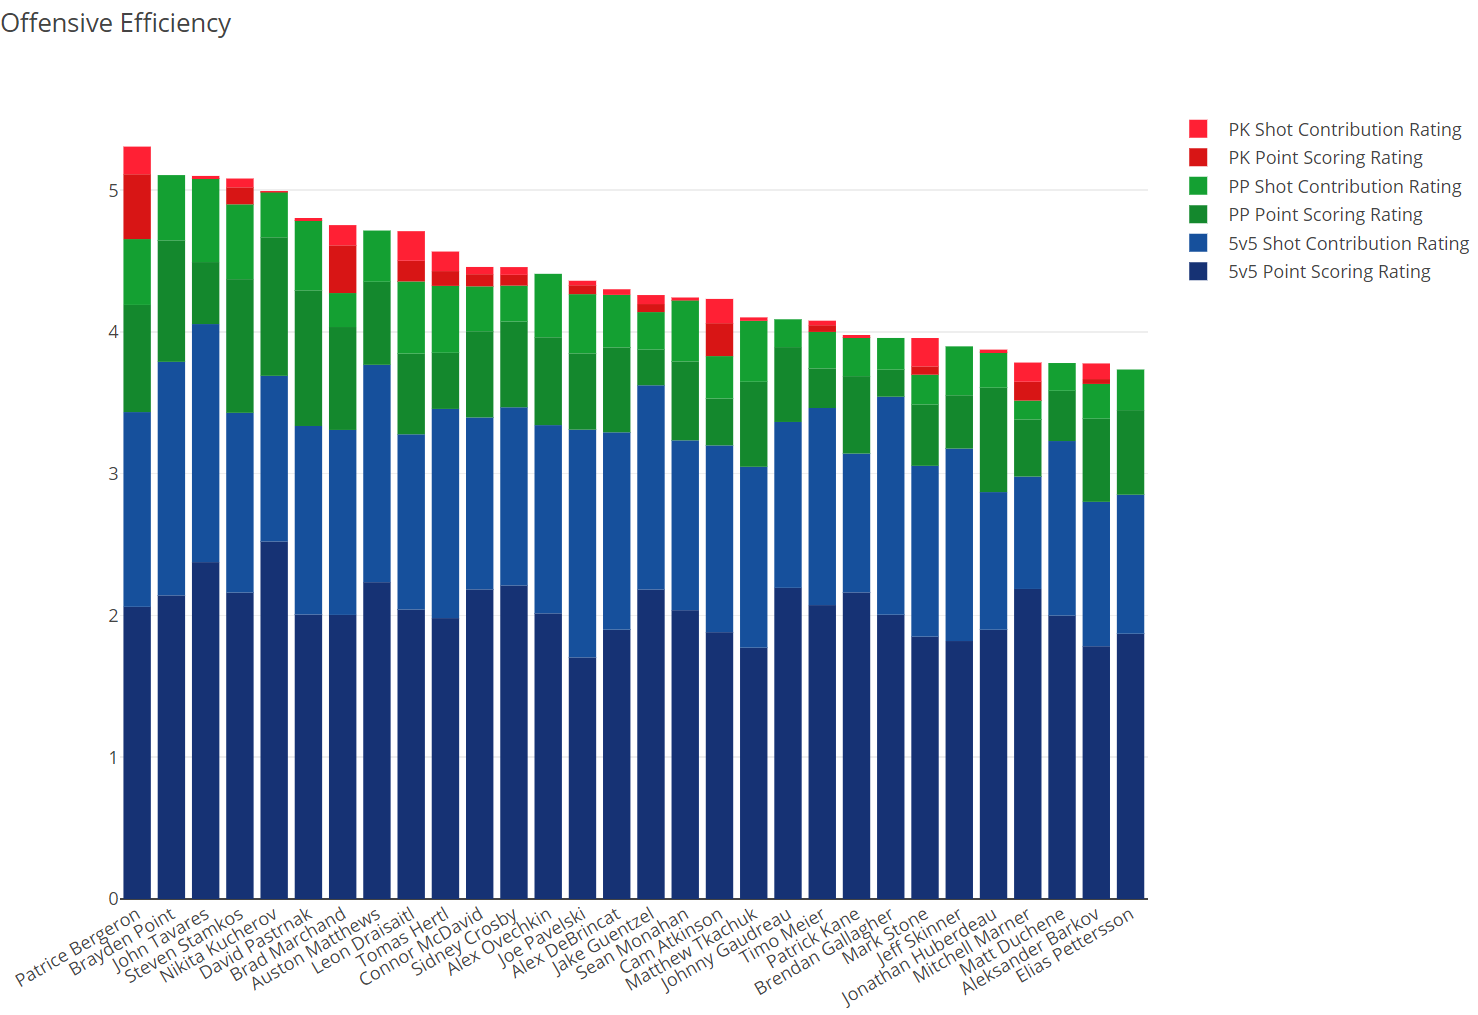
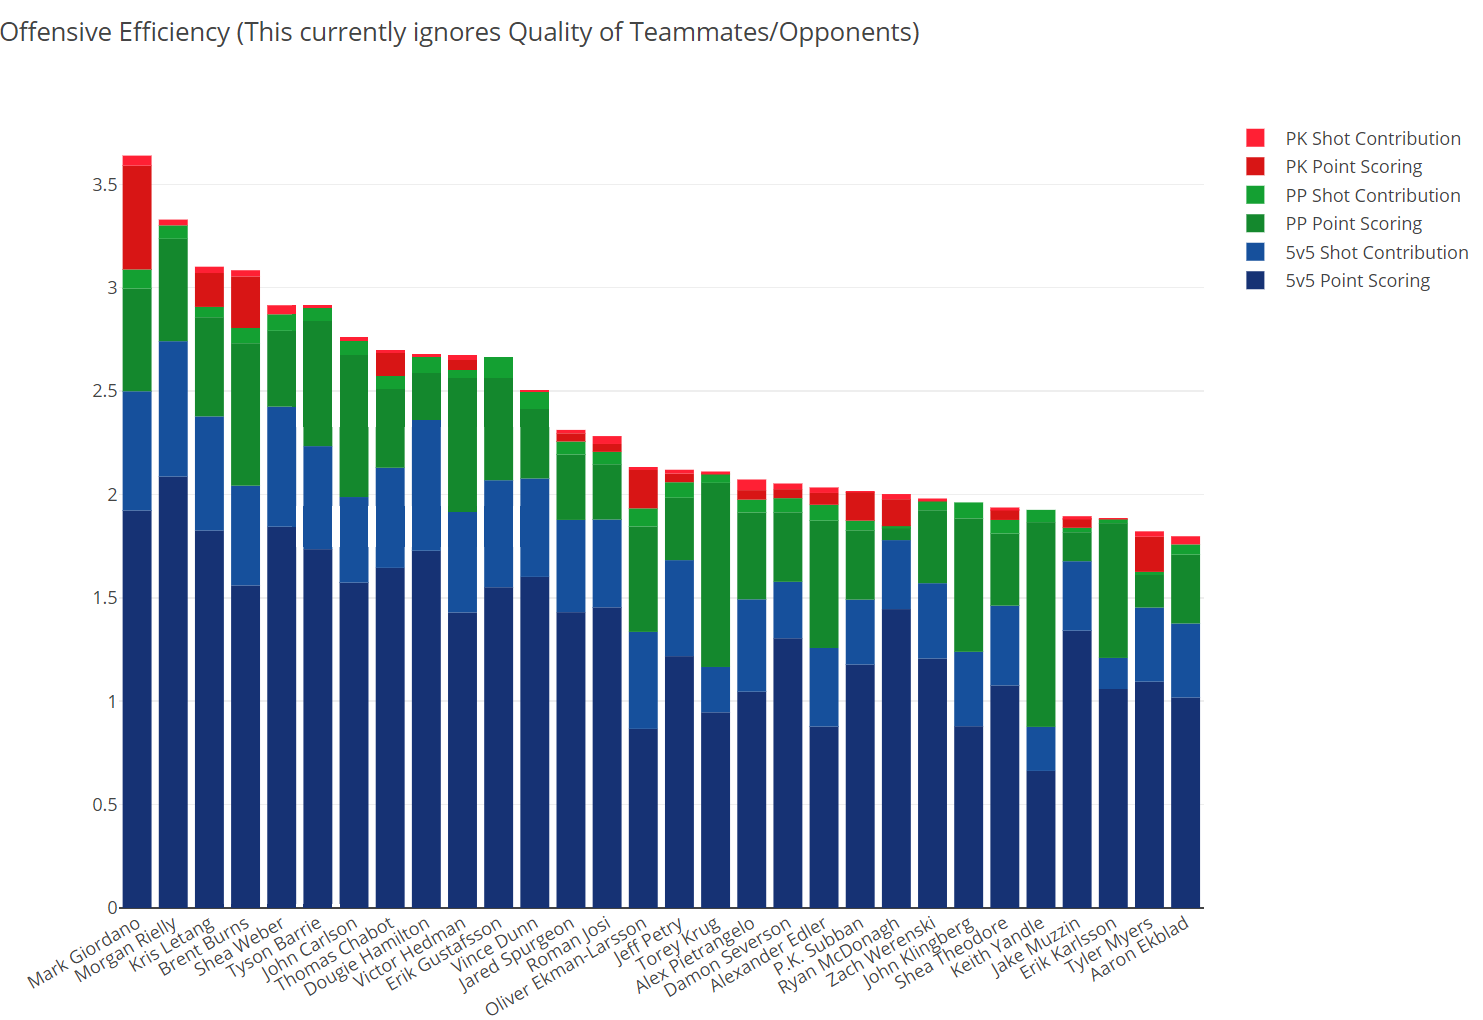
Cleaned up code, Commented Functions and Refactored
A lot of edits were made to remove clutter and add docstrings to functions (will have to add a Model class to clean up the Skater class code).

Removed references to old code.

Changed picture to a different example filter for Defencemen that shows satasfyingly a accurate rating scale.

Will also need to look into Plot.ly documentation more to give the chart more style.

diff --git a/HockeyStatsModel.py b/HockeyStatsModel.py
@@ -40,41 +40,43 @@ defenceRatingList = []
 
 # Open and Load json data
 def loadAllTeamData():
+    """Load JSON for Team Season Data in All Situations 2018-19"""
     with open('Team Season Stats 2018-19.json') as f:
         allTeamData = json.load(f)
         return allTeamData
 def load5v5TeamData():
+    """Load JSON for Team Season Data at 5v5 (Even Strength) 2018-19"""
     with open('5v5 Team Season Stats 2018-19.json') as f:
         team5v5Data = json.load(f)
         return team5v5Data
 def loadAllIndividualData():
+    """Load JSON for Player Data in All Situations 2018-19"""
     with open('Total Individual Skater Stats 2018-19.json') as f:
         allSkaterData = json.load(f)
         return allSkaterData
 def load5v5IndividualData():
+    """Load JSON for Player Data at 5v5 (Even Strength) 2018-19"""
     with open('5v5 Individual Skater Stats 2018-19.json') as f:
         i5v5Data = json.load(f)
         return i5v5Data
 def loadPPIndividualData():
+    """Load JSON for Player Data at 5v4 or 5-3 (Powerplay) 2018-19"""
     with open('PP Individual Skater Stats 2018-19.json') as f:
         iPPData = json.load(f)
         return iPPData
 def loadPKIndividualData():
+    """Load JSON for Player Data at 4v5 or 3-5 (Penalty Kill) 2018-19"""
     with open('PK Individual Skater Stats 2018-19.json') as f:
         iPKData = json.load(f)
         return iPKData
 
-# Iterates through two JSON Object lists and merges the matching records
-# def mergePlayerData(data1,data2):
-#     for player1 in data1:
-#         for player2 in data2:
-#             if (player1['playerId'] == player2['playerId']):
-#                 player1.update(player2)
-#     return data1
-
-# Process the data into a usable state
-
 def processData():
+    """
+    Collects all of the data from different sources.
+    Then Calculations are ran to gather each players Overall Offensive rating (and all other specific Offensive Ratings).
+    The Player list is then sorts based on their overall rating to sort for display (Plot.ly cannot sort a stacked bar chart).
+    Lastly, a filter is applied to select a specific dataset for display.
+    """
     NHL_TEAM_5v5_GOALS_DICT = {}
 
     for team in team5v5Data:
@@ -155,6 +157,7 @@ def processData():
                 s.pkiSCF = player['iSCF']
                 s.pkiHDCF = player['iHDCF']
 
+    #Calculate Each Players Offensive Rating
     for s in skaterList:
         offenceRatingList.append(s.calcOffensiveRating())
 
@@ -162,8 +165,10 @@ def processData():
 
     count = 0
     limit = 30
+
+    # Data Selection Filter
     for s in skaterList:
-        if (limit > count and s.toiALL > 1200):
+        if (limit > count and s.toiALL > 1200 and s.position == "D"):
             nameList.append(s.name)
             toiAllList.append(s.toiALL)
             evOffenceRatingList.append(s.evOffensiveRating)
@@ -178,7 +183,6 @@ def processData():
             ppPointsRatingList.append(s.ppPointsRating)
             pkPointsRatingList.append(s.pkPointsRating)
             count += 1
-
             print(s)
 
     print (str(len(nameList)) + ' results\n')
@@ -186,13 +190,16 @@ def processData():
 
 # Configure the settings for the chart and sent the data to Plot.ly
 def plotChart():
+    """
+    Utilizing the functions in the Plot.ly library, the data is organized to display the data in an appealing way.
+    """
     print ('Plotting...\n')
 
     # Even Strength Traces
     tracePointOffence = go.Bar(
         x=nameList,
         y=evPointsRatingList,
-        name='5v5 Point Scoring Rating',
+        name='5v5 Point Scoring',
         marker=dict(
             color='rgb(22, 50, 116)'
         )
@@ -200,7 +207,7 @@ def plotChart():
     traceShotOffence = go.Bar(
         x=nameList,
         y=evShotsRatingList,
-        name='5v5 Shot Contribution Rating',
+        name='5v5 Shot Contribution',
         marker=dict(
             color='rgb(22, 80, 156)'
         )
@@ -210,7 +217,7 @@ def plotChart():
     tracePPPointOffence = go.Bar(
         x=nameList,
         y=ppPointsRatingList,
-        name='PP Point Scoring Rating',
+        name='PP Point Scoring',
         marker=dict(
             color='rgb(20, 136, 45)'
         )
@@ -218,7 +225,7 @@ def plotChart():
     tracePPShotOffence = go.Bar(
         x=nameList,
         y=ppShotsRatingList,
-        name='PP Shot Contribution Rating',
+        name='PP Shot Contribution',
         marker=dict(
             color='rgb(20, 160, 50)'
         )
@@ -228,7 +235,7 @@ def plotChart():
     tracePKPointOffence = go.Bar(
         x=nameList,
         y=pkPointsRatingList,
-        name='PK Point Scoring Rating',
+        name='PK Point Scoring',
         marker=dict(
             color='rgb(216, 21, 21)'
         )
@@ -236,7 +243,7 @@ def plotChart():
     tracePKShotOffence = go.Bar(
         x=nameList,
         y=pkShotsRatingList,
-        name='PK Shot Contribution Rating',
+        name='PK Shot Contribution',
         marker=dict(
             color='rgb(255, 32, 52)'
         )
@@ -244,7 +251,7 @@ def plotChart():
     layout = go.Layout(
         barmode='stack',
         title=go.layout.Title(
-            text='Offensive Efficiency',
+            text='Offensive Efficiency (This currently ignores Quality of Teammates/Opponents)',
             x=0
         ),
         xaxis = dict(tickangle=-30)
@@ -253,69 +260,10 @@ def plotChart():
     fig = go.Figure(data=data, layout=layout)
     py.plot(fig, file='player-model')
 
-#https://stackoverflow.com/questions/44309507/stacked-bar-plot-using-matplotlib
-# def stacked_bar(data, series_labels, category_labels=None,
-#                 show_values=False, value_format="{}", y_label=None,
-#                 grid=True, reverse=False):
-#     """Plots a stacked bar chart with the data and labels provided.
-#
-#     Keyword arguments:
-#     data            -- 2-dimensional numpy array or nested list
-#                        containing data for each series in rows
-#     series_labels   -- list of series labels (these appear in
-#                        the legend)
-#     category_labels -- list of category labels (these appear
-#                        on the x-axis)
-#     show_values     -- If True then numeric value labels will
-#                        be shown on each bar
-#     value_format    -- Format string for numeric value labels
-#                        (default is "{}")
-#     y_label         -- Label for y-axis (str)
-#     grid            -- If True display grid
-#     reverse         -- If True reverse the order that the
-#                        series are displayed (left-to-right
-#                        or right-to-left)
-#     """
-#
-#     ny = len(data[0])
-#     ind = list(range(ny))
-#
-#     axes = []
-#     cum_size = np.zeros(ny)
-#
-#     data = np.array(data)
-#
-#     if reverse:
-#         data = np.flip(data, axis=1)
-#         category_labels = reversed(category_labels)
-#
-#     for i, row_data in enumerate(data):
-#         axes.append(plt.bar(ind, row_data, bottom=cum_size,
-#                             label=series_labels[i]))
-#         cum_size += row_data
-#
-#     if category_labels:
-#         plt.xticks(ind, category_labels)
-#
-#     if y_label:
-#         plt.ylabel(y_label)
-#
-#     plt.legend()
-#
-#     if grid:
-#         plt.grid()
-#
-#     if show_values:
-#         for axis in axes:
-#             for bar in axis:
-#                 w, h = bar.get_width(), bar.get_height()
-#                 plt.text(bar.get_x() + w / 2, bar.get_y() + h / 2,
-#                          value_format.format(h), ha="center",
-#                          va="center")
-
-#def matPlotChart():
-
 def endTimer():
+    """
+    Timer used for debugging to quickly catch issues that were costly to loading times.
+    """
     print ('Finishing...\n')
     end = time.time()
     totalTime = "{0:.4f}".format(end - start)
@@ -332,12 +280,6 @@ i5v5Data = load5v5IndividualData()
 iPPData = loadPPIndividualData()
 iPKData = loadPKIndividualData()
 
-# Merge Datasets (this section may still end up being used)
-# playerData = mergePlayerData(summaryData, assistData)
-# playerData = mergePlayerData(playerData, faceoffData)
-# playerData = mergePlayerData(playerData, penaltyData)
-# playerData = mergePlayerData(playerData, miscData)
-
 teamAllData = allTeamData
 team5v5Data = team5v5Data
 playerAllData = allSkaterData
@@ -345,16 +287,11 @@ player5v5Data = i5v5Data
 playerPPData = iPPData
 playerPKData = iPKData
 
-
 # Feed and manipulate the data for use
 print ('Processing...\n')
 processData()
 
 # Plot data on Plot.ly
 plotChart()
-
-# Plot data with matplotlib
-#matPlotChart()
-
 
 endTimer()

diff --git a/Skater.py b/Skater.py
@@ -14,13 +14,18 @@ class Skater:
         line4 = 'PP ORating: ' + "{0:.4f}".format(self.ppOffensiveRating) + '\n'
         line5 = 'PK ORating: ' + "{0:.4f}".format(self.pkOffensiveRating) + '\n'
         line6 = 'Offensive Points Rating: ' + "{0:.4f}".format(self.offensivePointsRating) + '\n'
-        line7 = 'Offensive Shots Rating: ' + "{0:.4f}".format(self.offensiveShotRating) + '\n'
+        line7 = 'Offensive Shots Rating: ' + "{0:.4f}".format(self.offensiveShotsRating) + '\n'
         line8 = 'Total Offensive Rating: ' + "{0:.4f}".format(self.offensiveRating) + '\n'
         return line1 + line2 + line3 + line4 + line5 + line6 + line7 + line8# + line9
 
+    #
+    # Declaring variables to store any applicable data
+    #
+    # Some of this isn't used yet and some of it should be moved into a different "Model" class to cut down on the clutter
+    #
     offensiveRating = 0
     offensivePointsRating = 0
-    offensiveShotRating = 0
+    offensiveShotsRating = 0
 
     evOffensiveRating = 0
     ppOffensiveRating = 0
@@ -104,7 +109,14 @@ class Skater:
     ppShotsRating = 0
     pkShotsRating = 0
 
+
     def calcOffensiveRating(self):
+        """
+        Calculate a Rating to combine a Player's total Offensive Output per 60min of play.
+        This looks at Even Strength, Penalty Kill, and Powerplay situations
+        Goals/Assists & Shooting output data in each situation will have their values weighted and added up.
+        :return: Overall Offensive Rating
+        """
         toiAllWeight = self.toiALL / self.games * 0.05
 
         self.offensiveRating = 0
@@ -150,7 +162,7 @@ class Skater:
             pkORatingPer60 += self.pkPointsRating + self.pkShotsRating
 
         self.offensivePointsRating = self.evPointsRating + self.ppPointsRating + self.pkPointsRating
-        self.offensiveShotRating = self.evShotsRating + self.ppShotsRating + self.pkShotsRating
+        self.offensiveShotsRating = self.evShotsRating + self.ppShotsRating + self.pkShotsRating
 
         self.evOffensiveRating = evORatingPer60
         self.ppOffensiveRating = ppORatingPer60
@@ -162,11 +174,11 @@ class Skater:
 
         return ORatingPer60
 
-    #
-    #   Offensive Points Rating
-    #
     def calcOffensivePointsRating(self):
-
+        """
+        Calculates a player's Points Rating to be used in the Overall Offense Rating
+        :return: Offensive Points Rating
+        """
         evG = self.goals5v5 * 1
         evA1 = self.fAssists5v5 * self.fAssistToGoalWeight
         evA2 = self.sAssists5v5 * self.sAssistToGoalWeight
@@ -198,17 +210,12 @@ class Skater:
             self.pkPointsRating += pkG
             self.pkPointsRating += pkA
 
-    #
-    #   Offensive Shots Rating
-    #
-    # Each of these stats are including the weighting of of the stats above it in the block
-    #   eviCF = even strength individual Corsi For
-    #   eviCF = even strength individual Fenwick For
-    #   eviSF = even strength individual Shots For
-    #   eviSCF = even strength individual Scoring Chances For
-    #   eviSCF = even strength individual High-Danger Scoring Chances For
-    #
     def calcOffensiveShotsRating(self):
+        """
+        Calculates a player's Shots Rating to be used in the Overall Offense Rating.
+        :return: Offensive Shots Rating
+        """
+
         CFWeight = 0.040
         FFWeight = 0.020
         SFWeight = 0.020
@@ -226,6 +233,12 @@ class Skater:
             self.pkShotQualityAdjustment = (pkxFSHLeagueAvg * self.shPercentage) * 0.10
         #
         #   Even Strength (5v5)
+        #
+        #   eviCF = even strength individual Corsi For
+        #   eviCF = even strength individual Fenwick For
+        #   eviSF = even strength individual Shots For
+        #   eviSCF = even strength individual Scoring Chances For
+        #   eviHDSCF = even strength individual High-Danger Scoring Chances For
         #
         eviCF = self.eviCF * CFWeight
         eviFF = self.eviFF * FFWeight
